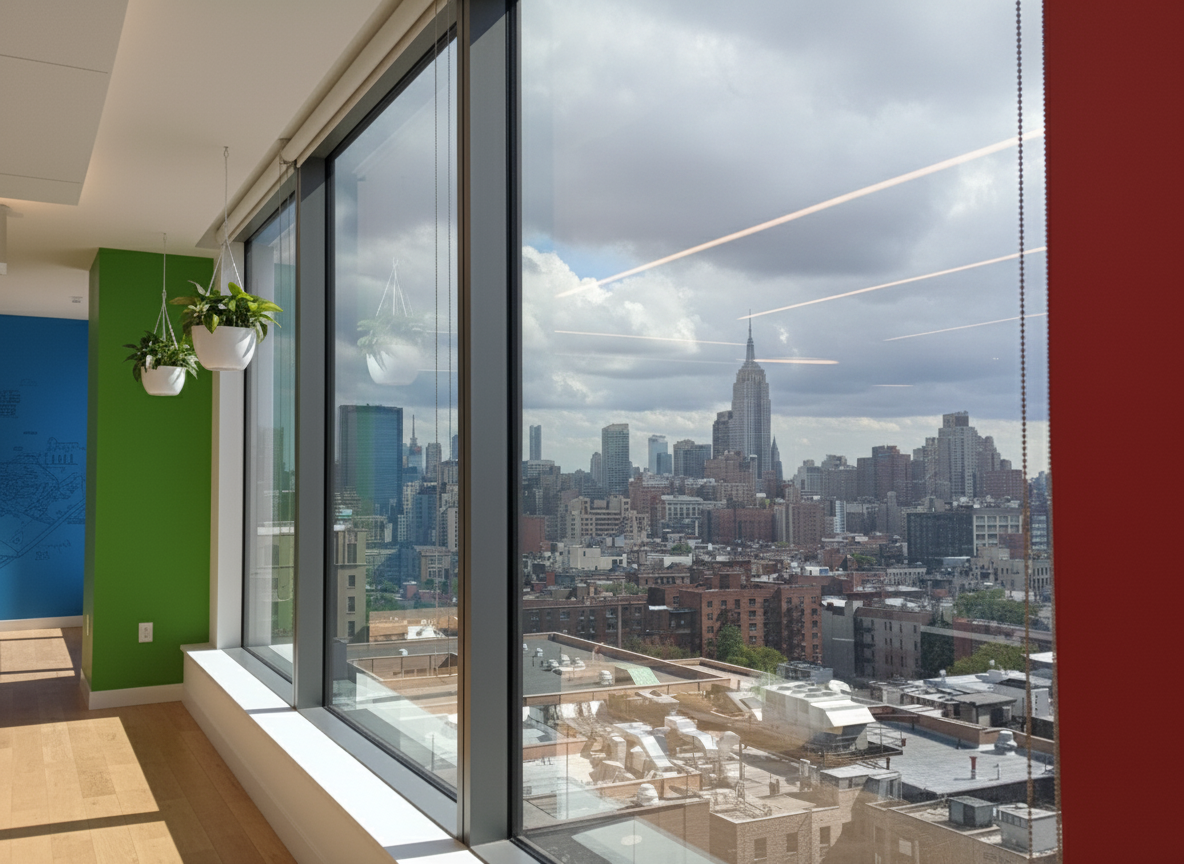
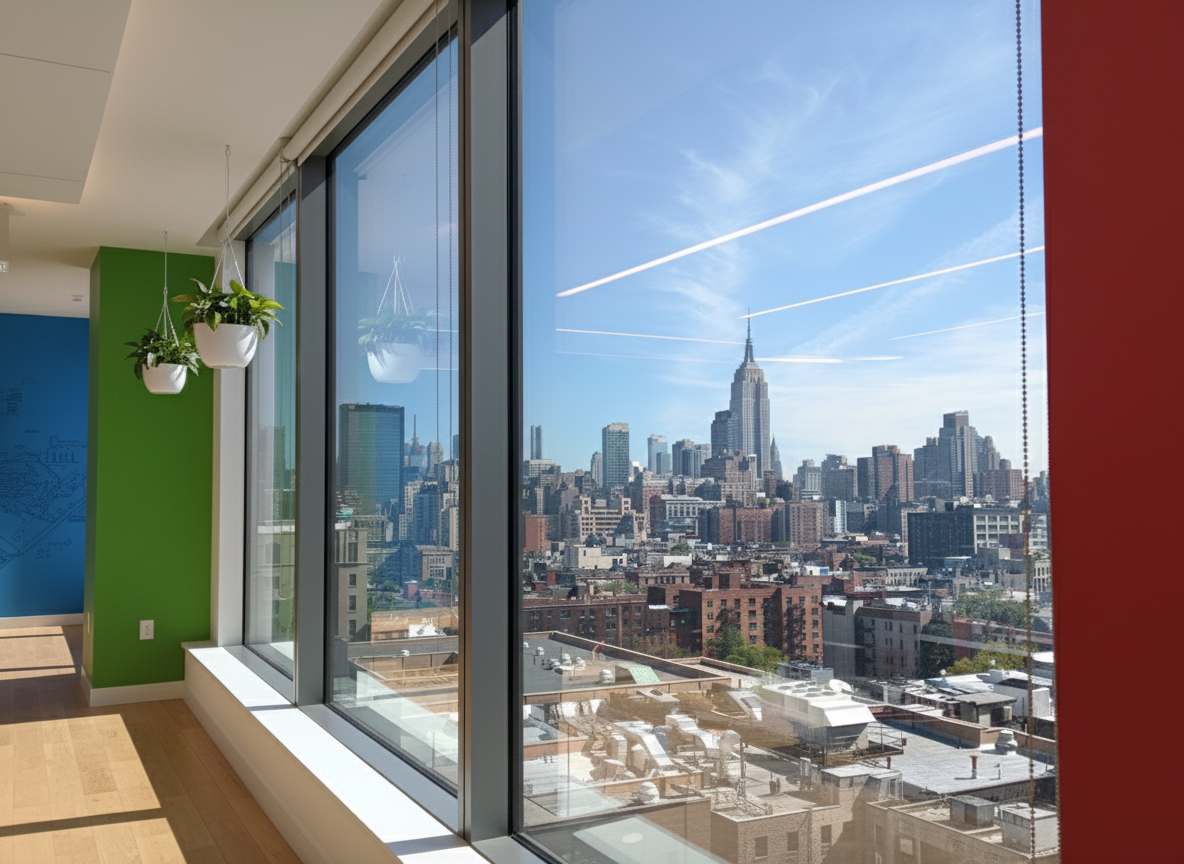
Update current virtual office image

diff --git a/index.html b/index.html
@@ -33,7 +33,7 @@
   </style>
 </head>
 <body>
-  <img src="./virtual-office-current.png?v=1777335784" alt="Current virtual office weather image">
-  <div class="stamp">Last updated: 2026-04-27 17:23 PDT</div>
+  <img src="./virtual-office-current.png?v=1777474807" alt="Current virtual office weather image">
+  <div class="stamp">Last updated: 2026-04-29 08:00 PDT</div>
 </body>
 </html>
